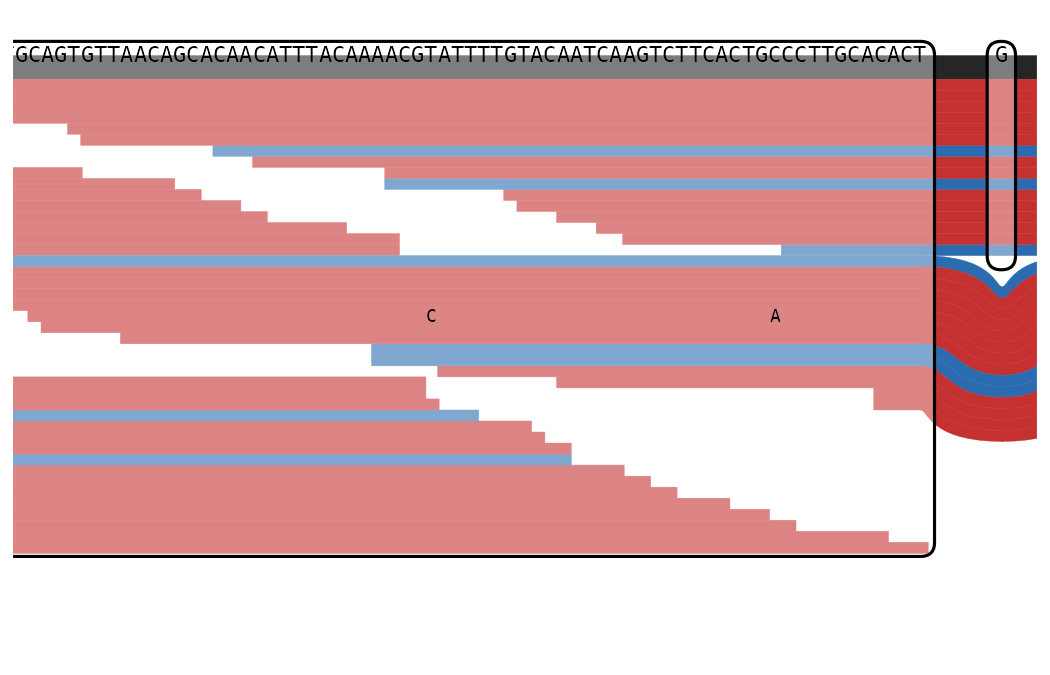
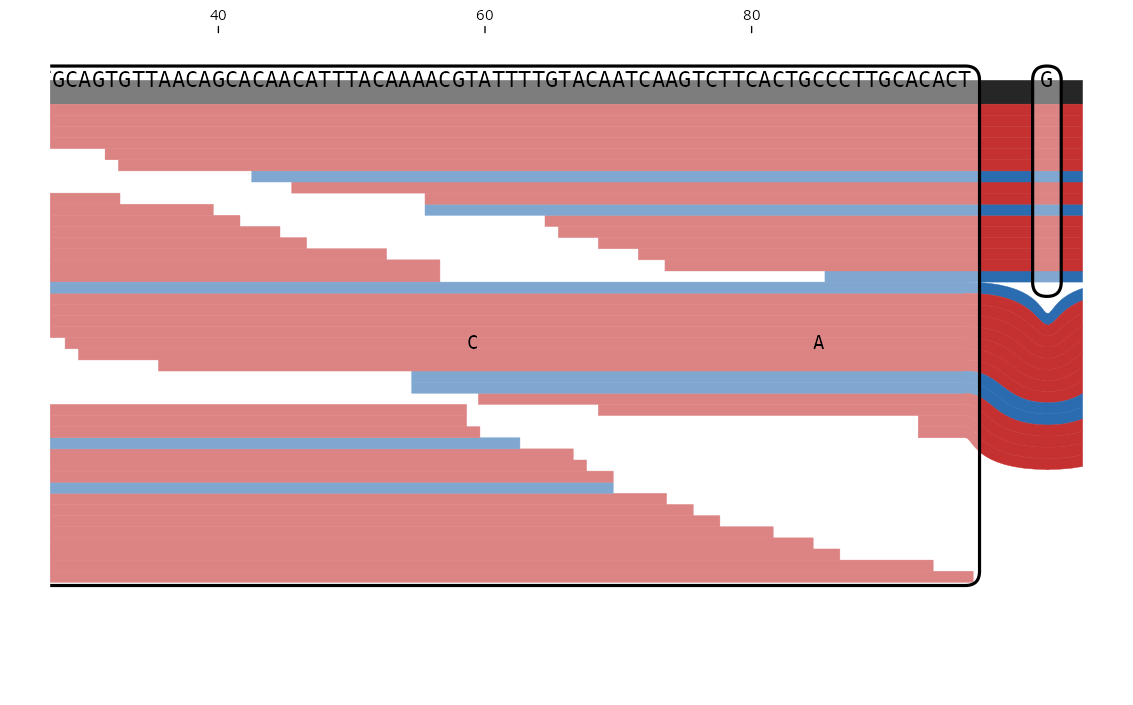
Draw sequenceTubeMap's ruler, and map positions to layout x
The bridge now returns the ruler track's node visits in coordinate order,
as the viewer's drawRuler walks them. From those:

- tubemap_x() turns positions on the ruler track into layout x, at the
  centre of the base geom_tubemap_sequence() prints
- scale_x_tubemap() puts the ruler on a top x axis, with ticks every
  interval bases and at each compressed node, and drops overlapping labels
- autoplot() draws it whenever a track carries coordinates, and
  tubemap_size() leaves room for it
- read_gfa() gives each track an index_of_first_base, from a walk's start
  or a subpath name, so GFA graphs get a ruler too

diff --git a/tools/bridge.js b/tools/bridge.js
@@ -4,8 +4,10 @@
 import {
   curvePaths,
   flattenPath,
+  isForwardIndex,
   layoutTopology,
   nodeOutlinePath,
+  nodePixelCoordinatesInX,
   placeFacets,
   readMismatches,
 } from '@jbrowse/tubemap-core'
@@ -92,6 +94,32 @@ function trackShapes(layout, steps, emit) {
   }
 }
 
+// The ruler track's node visits in ascending coordinate order, as
+// sequenceTubeMap's drawRuler walks them
+function rulerVisits(layout, emit) {
+  if (layout.trackForRuler === undefined) {
+    return
+  }
+  const track = layout.tracks.find(t => t.name === layout.trackForRuler)
+  const steps = track.indexSequence
+  let start = track.indexOfFirstBase ?? 0
+  for (let i = 0; i < steps.length; i += 1) {
+    const step = track.isCompletelyReverse ? steps.length - 1 - i : i
+    const node = layout.nodes[Math.abs(steps[step])]
+    const [left, right] = nodePixelCoordinatesInX(node)
+    emit({
+      track: track.name,
+      node: node.name,
+      start,
+      length: node.sequenceLength,
+      reverse: isForwardIndex(steps[step]) === Boolean(track.isCompletelyReverse),
+      left,
+      right,
+    })
+    start += node.sequenceLength
+  }
+}
+
 globalThis.tubemapLayout = function (requestJson) {
   const { nodes, tracks, reads, topology, placement, steps } =
     JSON.parse(requestJson)
@@ -142,6 +170,8 @@ globalThis.tubemapLayout = function (requestJson) {
     'soft_clip',
   ])
   const panels = columns(['panel', 'label', 'top', 'bottom', 'offset_y'])
+  const ruler = columns(['track', 'node', 'start', 'length', 'reverse', 'left', 'right'])
+  rulerVisits(faceted.panels[0].layout, row => pushRow(ruler, row))
 
   let group = 0
   const seenTracks = new Set()
@@ -228,5 +258,6 @@ globalThis.tubemapLayout = function (requestJson) {
     outlines,
     mismatches,
     panels,
+    ruler,
   })
 }

diff --git a/inst/js/tubemap-core.js b/inst/js/tubemap-core.js
@@ -2417,6 +2417,29 @@
       }
     }
   }
+  function rulerVisits(layout, emit) {
+    if (layout.trackForRuler === void 0) {
+      return;
+    }
+    const track = layout.tracks.find((t) => t.name === layout.trackForRuler);
+    const steps = track.indexSequence;
+    let start = track.indexOfFirstBase ?? 0;
+    for (let i = 0; i < steps.length; i += 1) {
+      const step = track.isCompletelyReverse ? steps.length - 1 - i : i;
+      const node = layout.nodes[Math.abs(steps[step])];
+      const [left, right] = nodePixelCoordinatesInX(node);
+      emit({
+        track: track.name,
+        node: node.name,
+        start,
+        length: node.sequenceLength,
+        reverse: isForwardIndex(steps[step]) === Boolean(track.isCompletelyReverse),
+        left,
+        right
+      });
+      start += node.sequenceLength;
+    }
+  }
   globalThis.tubemapLayout = function(requestJson) {
     const { nodes, tracks, reads, topology, placement, steps } = JSON.parse(requestJson);
     const arranged = layoutTopology(nodes, tracks, reads, topology);
@@ -2465,6 +2488,8 @@
       "soft_clip"
     ]);
     const panels = columns(["panel", "label", "top", "bottom", "offset_y"]);
+    const ruler = columns(["track", "node", "start", "length", "reverse", "left", "right"]);
+    rulerVisits(faceted.panels[0].layout, (row) => pushRow(ruler, row));
     let group = 0;
     const seenTracks = /* @__PURE__ */ new Set();
     faceted.panels.forEach((p, i) => {
@@ -2548,7 +2573,8 @@
       nodes: nodeTable,
       outlines,
       mismatches,
-      panels
+      panels,
+      ruler
     });
   };
 })();

diff --git a/README.md b/README.md
@@ -73,6 +73,22 @@ autoplot(br, xlim = c(250, 900))
 
 ![Reads stacked under the BRCA1 reference, substitutions printed on them](man/figures/brca1.png)
 
+### Ruler and positions
+
+`autoplot()` draws a ruler along the top in the coordinates of the first track
+with an `index_of_first_base`. `read_gfa()` gives every track one, taken from
+a walk's start or from a path named `name[start-end]` or `name:start-end`, and
+0 for other paths. Draw the ruler on a custom plot with `scale_x_tubemap(tm)`.
+
+`tubemap_x()` turns positions on that track into layout x, to mark a region:
+
+```r
+micb <- tubemap_layout(tubemap_example("micb-kir3dl1"), node_width = "compressed")
+autoplot(micb) +
+  annotate("rect", xmin = tubemap_x(micb, 31500700), xmax = tubemap_x(micb, 31500800),
+           ymin = -Inf, ymax = Inf, fill = "gold", alpha = 0.3)
+```
+
 ### Facets
 
 `facet_by` stacks one panel per `sample_name`, `read_group` or PanSN
